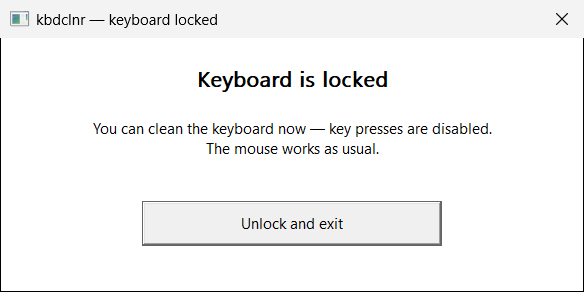
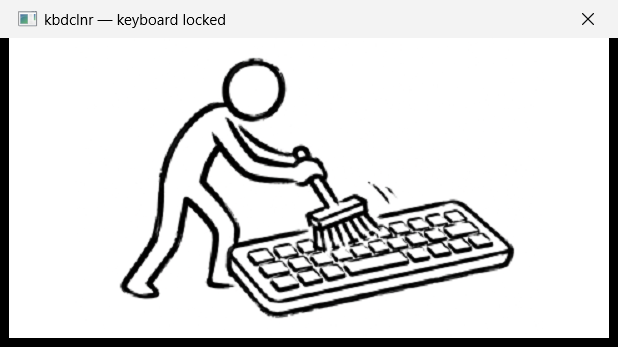
Replace window text and button with a single image
The window now shows one image and nothing else; it is closed with the
title bar close button. The image ships inside the exe as a PNG RCDATA
resource decoded at startup with WIC, which keeps the exe self-contained
without the ~340 KB an uncompressed BMP resource would cost.

See docs/adr/0001-embed-window-image-as-png-resource.md.

Claude-Session: https://claude.ai/code/session_0147XGG1DKWNEhRxvfEHTPsE

diff --git a/kbdclnr.c b/kbdclnr.c
@@ -10,13 +10,15 @@
 
 #define UNICODE
 #define _UNICODE
+#define COBJMACROS
 #include <windows.h>
+#include <wincodec.h>
+#include <shlwapi.h>
 
-#define IDC_BTN_UNLOCK 1001
+#include "resource.h"
 
 static HHOOK g_hook = NULL;
-static HFONT g_fontText = NULL;
-static HFONT g_fontTitle = NULL;
+static HBITMAP g_image = NULL;
 
 static LRESULT CALLBACK KeyboardHookProc(int nCode, WPARAM wParam, LPARAM lParam)
 {
@@ -25,18 +27,101 @@ static LRESULT CALLBACK KeyboardHookProc(int nCode, WPARAM wParam, LPARAM lParam
     return CallNextHookEx(g_hook, nCode, wParam, lParam);
 }
 
+/* Decode the PNG stored as an RCDATA resource into a top-down 32-bit DIB. */
+static HBITMAP LoadImageResource(HINSTANCE hInstance, int id)
+{
+    HRSRC res = FindResourceW(hInstance, MAKEINTRESOURCEW(id), RT_RCDATA);
+    if (!res)
+        return NULL;
+
+    HGLOBAL data = LoadResource(hInstance, res);
+    if (!data)
+        return NULL;
+
+    IStream *stream = SHCreateMemStream((const BYTE *)LockResource(data),
+                                        SizeofResource(hInstance, res));
+    if (!stream)
+        return NULL;
+
+    IWICImagingFactory *factory = NULL;
+    IWICBitmapDecoder *decoder = NULL;
+    IWICBitmapFrameDecode *frame = NULL;
+    IWICFormatConverter *converter = NULL;
+    HBITMAP bitmap = NULL;
+
+    if (SUCCEEDED(CoCreateInstance(&CLSID_WICImagingFactory, NULL,
+                                   CLSCTX_INPROC_SERVER, &IID_IWICImagingFactory,
+                                   (void **)&factory)) &&
+        SUCCEEDED(IWICImagingFactory_CreateDecoderFromStream(
+            factory, stream, NULL, WICDecodeMetadataCacheOnLoad, &decoder)) &&
+        SUCCEEDED(IWICBitmapDecoder_GetFrame(decoder, 0, &frame)) &&
+        SUCCEEDED(IWICImagingFactory_CreateFormatConverter(factory, &converter)) &&
+        SUCCEEDED(IWICFormatConverter_Initialize(
+            converter, (IWICBitmapSource *)frame, &GUID_WICPixelFormat32bppBGR,
+            WICBitmapDitherTypeNone, NULL, 0.0, WICBitmapPaletteTypeCustom))) {
+
+        UINT w = 0, h = 0;
+        IWICFormatConverter_GetSize(converter, &w, &h);
+
+        BITMAPINFO bi = {0};
+        bi.bmiHeader.biSize = sizeof(bi.bmiHeader);
+        bi.bmiHeader.biWidth = (LONG)w;
+        bi.bmiHeader.biHeight = -(LONG)h; /* negative height = top-down rows */
+        bi.bmiHeader.biPlanes = 1;
+        bi.bmiHeader.biBitCount = 32;
+        bi.bmiHeader.biCompression = BI_RGB;
+
+        void *pixels = NULL;
+        bitmap = CreateDIBSection(NULL, &bi, DIB_RGB_COLORS, &pixels, NULL, 0);
+        if (bitmap && FAILED(IWICFormatConverter_CopyPixels(
+                          converter, NULL, w * 4, w * h * 4, (BYTE *)pixels))) {
+            DeleteObject(bitmap);
+            bitmap = NULL;
+        }
+    }
+
+    if (converter) IWICFormatConverter_Release(converter);
+    if (frame) IWICBitmapFrameDecode_Release(frame);
+    if (decoder) IWICBitmapDecoder_Release(decoder);
+    if (factory) IWICImagingFactory_Release(factory);
+    IStream_Release(stream);
+    return bitmap;
+}
+
+static void PaintImage(HWND hwnd, HDC hdc)
+{
+    RECT rc;
+    GetClientRect(hwnd, &rc);
+
+    if (!g_image) {
+        FillRect(hdc, &rc, GetSysColorBrush(COLOR_WINDOW));
+        return;
+    }
+
+    BITMAP bm;
+    GetObject(g_image, sizeof(bm), &bm);
+
+    HDC mem = CreateCompatibleDC(hdc);
+    HGDIOBJ old = SelectObject(mem, g_image);
+    SetStretchBltMode(hdc, HALFTONE);
+    StretchBlt(hdc, 0, 0, rc.right, rc.bottom,
+               mem, 0, 0, bm.bmWidth, bm.bmHeight, SRCCOPY);
+    SelectObject(mem, old);
+    DeleteDC(mem);
+}
+
 static LRESULT CALLBACK WndProc(HWND hwnd, UINT msg, WPARAM wParam, LPARAM lParam)
 {
     switch (msg) {
-    case WM_COMMAND:
-        if (LOWORD(wParam) == IDC_BTN_UNLOCK) {
-            DestroyWindow(hwnd);
-            return 0;
-        }
-        break;
-    case WM_CTLCOLORSTATIC:
-        SetBkMode((HDC)wParam, TRANSPARENT);
-        return (LRESULT)GetSysColorBrush(COLOR_WINDOW);
+    case WM_PAINT: {
+        PAINTSTRUCT ps;
+        HDC hdc = BeginPaint(hwnd, &ps);
+        PaintImage(hwnd, hdc);
+        EndPaint(hwnd, &ps);
+        return 0;
+    }
+    case WM_ERASEBKGND:
+        return 1; /* the image covers the whole client area */
     case WM_DESTROY:
         PostQuitMessage(0);
         return 0;
@@ -49,6 +134,7 @@ int WINAPI WinMain(HINSTANCE hInstance, HINSTANCE hPrev, LPSTR lpCmdLine, int nC
     (void)hPrev; (void)lpCmdLine;
 
     SetProcessDPIAware();
+    CoInitializeEx(NULL, COINIT_APARTMENTTHREADED);
 
     HDC screen = GetDC(NULL);
     int dpi = GetDeviceCaps(screen, LOGPIXELSX);
@@ -63,61 +149,35 @@ int WINAPI WinMain(HINSTANCE hInstance, HINSTANCE hPrev, LPSTR lpCmdLine, int nC
         return 1;
     }
 
+    g_image = LoadImageResource(hInstance, IDR_WINDOW_IMAGE);
+
     WNDCLASSW wc = {0};
     wc.lpfnWndProc = WndProc;
     wc.hInstance = hInstance;
     wc.hCursor = LoadCursor(NULL, IDC_ARROW);
-    wc.hbrBackground = (HBRUSH)(COLOR_WINDOW + 1);
     wc.lpszClassName = L"kbdclnrWnd";
     wc.hIcon = LoadIcon(NULL, IDI_APPLICATION);
     RegisterClassW(&wc);
 
-    int winW = S(480), winH = S(240);
+    /* Size the window so that its client area is exactly the image size. */
+    DWORD style = WS_OVERLAPPED | WS_CAPTION | WS_SYSMENU;
+    RECT wr = {0, 0, S(480), S(240)};
+    AdjustWindowRect(&wr, style, FALSE);
+    int winW = wr.right - wr.left, winH = wr.bottom - wr.top;
+
     int scrW = GetSystemMetrics(SM_CXSCREEN);
     int scrH = GetSystemMetrics(SM_CYSCREEN);
 
     HWND hwnd = CreateWindowExW(
         WS_EX_TOPMOST, L"kbdclnrWnd",
         L"kbdclnr — keyboard locked",
-        WS_OVERLAPPED | WS_CAPTION | WS_SYSMENU,
+        style,
         (scrW - winW) / 2, (scrH - winH) / 2, winW, winH,
         NULL, NULL, hInstance, NULL);
     if (!hwnd) {
         UnhookWindowsHookEx(g_hook);
         return 1;
     }
-
-    g_fontTitle = CreateFontW(S(24), 0, 0, 0, FW_SEMIBOLD, 0, 0, 0,
-                              DEFAULT_CHARSET, 0, 0, CLEARTYPE_QUALITY, 0,
-                              L"Segoe UI");
-    g_fontText = CreateFontW(S(16), 0, 0, 0, FW_NORMAL, 0, 0, 0,
-                             DEFAULT_CHARSET, 0, 0, CLEARTYPE_QUALITY, 0,
-                             L"Segoe UI");
-
-    RECT rc;
-    GetClientRect(hwnd, &rc);
-    int cw = rc.right - rc.left;
-
-    HWND title = CreateWindowExW(0, L"STATIC",
-        L"Keyboard is locked",
-        WS_CHILD | WS_VISIBLE | SS_CENTER,
-        S(10), S(20), cw - S(20), S(32), hwnd, NULL, hInstance, NULL);
-    SendMessageW(title, WM_SETFONT, (WPARAM)g_fontTitle, TRUE);
-
-    HWND text = CreateWindowExW(0, L"STATIC",
-        L"You can clean the keyboard now — key presses are disabled.\n"
-        L"The mouse works as usual.",
-        WS_CHILD | WS_VISIBLE | SS_CENTER,
-        S(10), S(64), cw - S(20), S(48), hwnd, NULL, hInstance, NULL);
-    SendMessageW(text, WM_SETFONT, (WPARAM)g_fontText, TRUE);
-
-    int btnW = S(240), btnH = S(36);
-    HWND btn = CreateWindowExW(0, L"BUTTON",
-        L"Unlock and exit",
-        WS_CHILD | WS_VISIBLE | BS_DEFPUSHBUTTON,
-        (cw - btnW) / 2, S(130), btnW, btnH,
-        hwnd, (HMENU)(INT_PTR)IDC_BTN_UNLOCK, hInstance, NULL);
-    SendMessageW(btn, WM_SETFONT, (WPARAM)g_fontText, TRUE);
 
     ShowWindow(hwnd, nCmdShow);
     UpdateWindow(hwnd);
@@ -130,7 +190,7 @@ int WINAPI WinMain(HINSTANCE hInstance, HINSTANCE hPrev, LPSTR lpCmdLine, int nC
 
     UnhookWindowsHookEx(g_hook);
     g_hook = NULL;
-    if (g_fontTitle) DeleteObject(g_fontTitle);
-    if (g_fontText) DeleteObject(g_fontText);
+    if (g_image) DeleteObject(g_image);
+    CoUninitialize();
     return 0;
 }

diff --git a/resource.h b/resource.h
@@ -1,0 +1,1 @@
+#define IDR_WINDOW_IMAGE 101

diff --git a/docs/adr/0001-embed-window-image-as-png-resource.md b/docs/adr/0001-embed-window-image-as-png-resource.md
@@ -1,0 +1,45 @@
+# 0001. Embed the window image as a PNG resource decoded with WIC
+
+- Status: Accepted
+- Date: 2026-07-25
+
+## Context
+
+The window used to contain a title, a description and an "Unlock and exit"
+button. It now shows a single image and nothing else; the window is closed with
+the title bar close button.
+
+The image has to ship inside the exe — the project promises a single file with
+no dependencies and no installation. Two encodings were considered:
+
+- **BMP as a `BITMAP` resource.** Loads with a single `LoadImage` call, but the
+  data is uncompressed: a 480×240 24-bit image costs ~338 KB, tripling the exe.
+- **PNG as an `RCDATA` resource.** Roughly 8 KB for the same image, at the cost
+  of decoding it at runtime.
+
+For decoding, GDI+ is the usual answer, but `gdiplus.h` is a C++ header and
+this project is plain C. Using its flat API would mean hand-declaring system
+prototypes and structs. WIC is COM and exposes C interfaces via `COBJMACROS`,
+so it needs no such workaround.
+
+## Decision
+
+Store the image as `assets/window.png`, compile it into the exe as an `RCDATA`
+resource, and decode it at startup with WIC into a top-down 32-bit DIB. Paint
+it with `StretchBlt` over the whole client area.
+
+The client area stays at 480×240 logical pixels (DPI-scaled) regardless of the
+image's pixel size, so replacing the image never changes the window geometry.
+
+## Consequences
+
+- The exe grows by the compressed size of the image (~46 KB for the current
+  one) instead of the ~340 KB an uncompressed 480×240 BMP would cost, and the
+  image is replaced by swapping one PNG file and rebuilding.
+- The build gained a resource-compilation step (`llvm-rc kbdclnr.rc`) and three
+  link-time libraries: `ole32`, `shlwapi`, `windowscodecs`.
+- ~50 lines of COM boilerplate now sit in a program that is otherwise
+  straightforward WinAPI.
+- Because the image is stretched to a fixed logical size, an image whose aspect
+  ratio is not 2:1 is distorted, and a low-resolution image looks soft on a
+  high-DPI display.

diff --git a/README.md b/README.md
@@ -6,7 +6,7 @@
 
 ![Windows](https://img.shields.io/badge/Windows-10%2F11-0078D6?logo=windows&logoColor=white)
 ![Language](https://img.shields.io/badge/C-WinAPI-A8B9CC?logo=c&logoColor=white)
-![Size](https://img.shields.io/badge/exe-%E2%89%88110_KB-success)
+![Size](https://img.shields.io/badge/exe-%E2%89%88157_KB-success)
 ![License](https://img.shields.io/badge/license-MIT-blue)
 
 <img src="assets/screenshot.png" alt="kbdclnr window" width="584">
@@ -22,8 +22,7 @@ exactly that:
 1. **Run `kbdclnr.exe`** → all keys are disabled, the mouse keeps working.
 2. Clean the keyboard as long as you like — the window stays on top
    as a reminder that the lock is active.
-3. **Close the window** (the “Unlock and exit” button or the close button,
-   with the mouse) → the keyboard works again.
+3. **Close the window** with the mouse → the keyboard works again.
 
 ## Download
 
@@ -44,12 +43,24 @@ hook automatically — the keyboard can never stay locked.
 - The on-screen keyboard and other software input sources are blocked too
   (the hook swallows injected events as well).
 
+## The window image
+
+The window shows a single image and nothing else. It lives in
+`assets/window.png` and is compiled into the exe as an `RCDATA` resource, so
+the exe stays self-contained. To change it, replace that file and rebuild.
+
+The image is stretched to the client area, which is 480×240 logical pixels
+(more on a high-DPI display). For a crisp result on a 150% display, supply the
+image at 720×360 or larger.
+
 ## Building
 
 All you need is clang (or any C compiler with the Windows SDK):
 
 ```sh
-clang -O2 kbdclnr.c -o kbdclnr.exe -luser32 -lgdi32 "-Wl,/SUBSYSTEM:WINDOWS"
+llvm-rc kbdclnr.rc
+clang -O2 kbdclnr.c kbdclnr.res -o kbdclnr.exe \
+    -luser32 -lgdi32 -lole32 -lshlwapi -lwindowscodecs "-Wl,/SUBSYSTEM:WINDOWS"
 ```
 
 ## License
